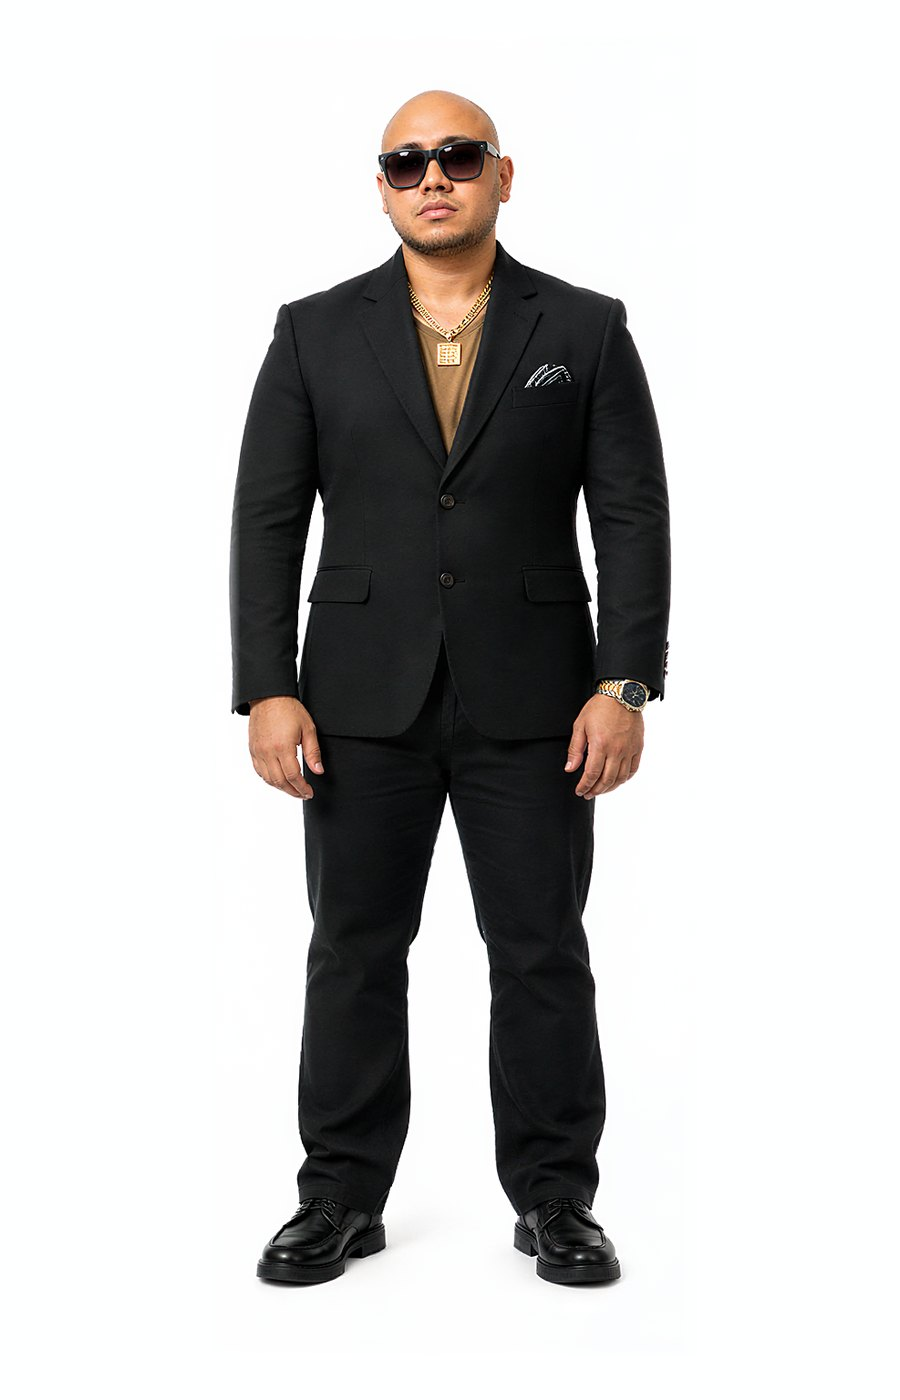
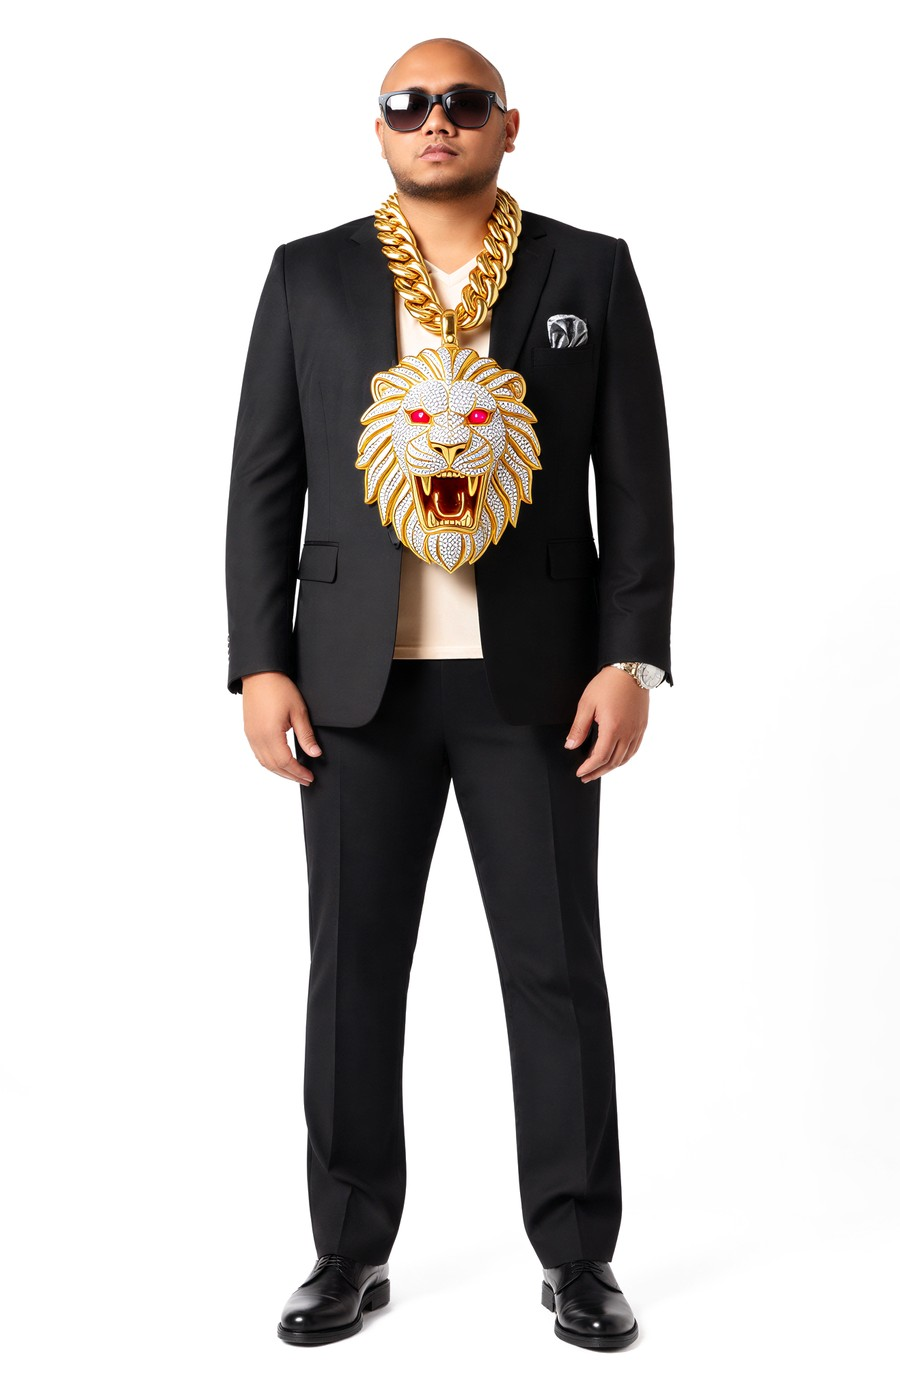
AI Influencer: new Criss P preset (iced-out lion chain, white background)
Claude-Session: https://claude.ai/code/session_01Pn4hNDRWRVhm438Rr9UBh8

diff --git a/js/influencer-presets.js b/js/influencer-presets.js
@@ -71,7 +71,7 @@ window.AIRH_INF_PRESETS = [
       x: "Signature: very long wavy dark brown hair past her waist, three black cat-whisker stripes face-painted on each cheek, a goofy silly face with her eyes playfully crossed looking at the tip of her nose and her tongue stuck out jokingly. Outfit: cropped white and grey striped long-sleeve top, oversized cropped black denim jacket, high-waisted black cargo pants, chunky black platform sneakers, small silver hoops" },
     { id: "y2k-star", name: "Y2K Pop Star", tier: "normal", view: "card", t: { gender: ["female"], build: ["curvy"], hair: ["pigtails"], haircolor: ["pink"], style: ["y2k"], ethnicity: ["asian"], age: ["adult"], skin: ["light"], features: ["freckles", "blush"], distinctive: ["gems"], accessories: ["glasses"] } },
     { id: "criss-p", name: "Criss P", tier: "normal", view: "card", t: { gender: ["male"], age: ["adult"], skin: ["tan"], build: ["muscular"], hair: ["bald"], facialhair: ["stubble"], accessories: ["glasses", "jewelry"], metal: ["gold"] },
-      x: "Signature: clean shaven bald head, short trimmed beard and moustache, dark square black sunglasses with gradient lenses, a calm confident boss expression, standing tall and still. Outfit: black two-button blazer with a black and white patterned pocket square, plain tan v-neck t-shirt, a thick gold Cuban link chain with a square gold medallion pendant, a two-tone silver and gold wristwatch, black straight-leg pants, polished black leather shoes" },
+      x: "Signature: clean shaven bald head, full round face, short trimmed beard and moustache, dark square black sunglasses with gradient lenses, a calm confident boss expression, standing tall and still. Outfit: black two-button blazer with a black and white patterned pocket square, plain tan v-neck t-shirt, a thick chunky gold Cuban link chain with a large iced-out lion head pendant, the lion's face and mane paved with white diamonds, gold outlines, red ruby eyes and an open roaring gold mouth, a two-tone silver and gold wristwatch, black straight-leg pants, polished black leather shoes" },
     { id: "blonde-bree", name: "Blonde Bree", tier: "normal", view: "card", t: { gender: ["female"], age: ["adult"], ethnicity: ["european"], skin: ["tan"], build: ["curvy"], hair: ["long"], haircolor: ["platinum"], eyecolor: ["hazel"], features: ["blush"], distinctive: ["lashes"], accessories: ["jewelry"] },
       x: "Signature: very long straight platinum blonde hair with darker roots and full wispy curtain bangs, dramatic long false lashes, rosy flushed cheeks, glossy pink lips, a sweet shy closed-mouth smile with her head tilted slightly, hands clasped behind her back. Outfit: white and black leopard print string bikini with bright aqua blue trim and side-tie bottoms, a gold beaded choker, two layered dainty gold chain necklaces with a small gold cross pendant." },
     { id: "pink-pixie", name: "Pink Pixie", tier: "normal", view: "card", t: { gender: ["female"], age: ["adult"], ethnicity: ["european"], skin: ["fair"], build: ["slim"], hair: ["long"], haircolor: ["pink"], eyecolor: ["green"], features: ["blush"], distinctive: ["lashes"] },

diff --git a/admin.html b/admin.html
@@ -342,7 +342,7 @@
 <script src="js/admin.js"></script>
 <script src="js/admin-thumbs.js"></script>
 <script src="js/admin-site.js"></script>
-<script src="js/influencer-presets.js?v=20261017c"></script>
+<script src="js/influencer-presets.js?v=20261020b"></script>
 <script src="js/admin-inforder.js"></script>
 <script src="js/admin-motionpresets.js?v=20261018c"></script>
 <script src="js/admin-contentguard.js?v=20261020a"></script>

diff --git a/influencer.html b/influencer.html
@@ -479,7 +479,7 @@
 <script src="js/main.js"></script>
 <script src="js/auth-nav.js"></script>
 <script src="js/render-status.js"></script>
-<script src="js/influencer-presets.js?v=20261018c"></script>
+<script src="js/influencer-presets.js?v=20261020b"></script>
 <script src="js/influencer.js?v=20261020a"></script>
 </body>
 </html>
